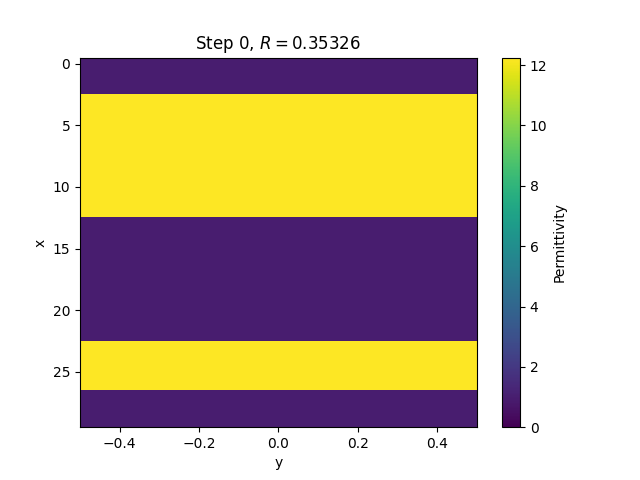
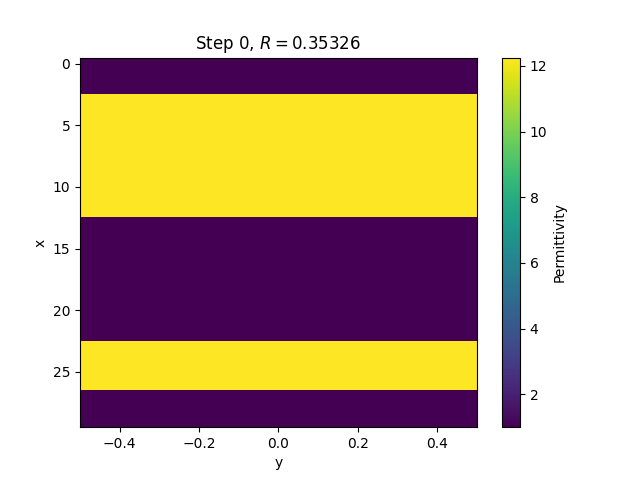
Moved files and identified error in optimizing for boundary permittivity

diff --git a/grcwa/optimisation/attempting stuff/ilic_GRCWA_autograd_width_R.py b/grcwa/optimisation/attempting stuff/ilic_GRCWA_autograd_width_R.py
@@ -1,4 +1,4 @@
-""" Topology optimization of reflection of a single patterned layer."""
+""" Topology optimization of reflection of a single patterned layers ."""
 """ Nlopt is needed. For some reason does not work with latest version of numpy. Works fine with numpy 1.25.0 """
 
 import grcwa
@@ -6,8 +6,8 @@ grcwa.set_backend('autograd')  # important!!
 
 import numpy as np
 import autograd.numpy as npgrad
-# from autograd import grad
 import nlopt
+from autograd import grad
 
 import matplotlib.pyplot as plt
 
@@ -17,7 +17,7 @@ Discretisation values
 # Truncation order
 nG = 30
 # Resolution 
-Nx = 10000
+Nx = 100
 Ny = 1
 
 '''
@@ -35,28 +35,58 @@ h = 0.5  # thickness of resonator layer
 t = 0.5  # also equal to thickness of substrate layer
 
 E_vacuum = 1.
-E_Si = 3.5**2    # https://refractiveindex.info/ with k = n^2 (dielectric constant, refractive index)
+E_Si = 3.5**2     # https://refractiveindex.info/ with k = n^2 (dielectric constant, refractive index)
 E_SiO2 = 1.45**2  # https://refractiveindex.info/ with k = n^2 (dielectric constant, refractive index)
 
 # Lattice constants. I will consider a lattice with square-shaped unit cells of size d x d (in natural units specified above)
 L1 = [d, 0]
 L2 = [0, dy]
 
+def boundary_indices(x):
+    global E_Si
+    # Define boundary permittivities
+    eps_1d = x[:,0]
+    boundary_indices = []
+    for i in range(1,len(eps_1d)-1):
+        lower_neighbor = eps_1d[i-1]
+        current = eps_1d[i]
+        upper_neighbor = eps_1d[i+1]
+        if current == E_Si and (lower_neighbor == E_Si or upper_neighbor == E_Si) and (lower_neighbor != upper_neighbor):
+            # then we are at a boundary
+            boundary_indices.append(i)
+    return boundary_indices
 '''
 Cell geometry
-    vars: an array, vars = [x1,w1,x2,w2]
+    vars: an array, vars = [eps1, eps2] which contains the permittivities at the edges of each element.
 '''
 def get_cell_geometry(vars):
+    
     # Unit cell geometry (rows, cols)
-    x = np.ones((Nx,Ny), dtype=float)*E_vacuum
+    cell_geometry = np.ones((Nx,Ny), dtype=float)*E_vacuum
 
     x0 = np.linspace(0,d,Nx)
     y0 = np.linspace(0,dy,Ny)
     x, y = np.meshgrid(x0,y0, indexing='ij')
+
     # The design will be completely uniform in the y-direction.
-    filter = (abs(x-vars[0]) <= vars[1]/2) | (abs(x-vars[2]) <= vars[3]/2)
-    x[filter] = E_Si
-    return x
+    filter = (abs(x-x1) <= vars[0]/2) | (abs(x-x2) <= vars[1]/2)
+    cell_geometry[filter] = E_Si
+
+    # What proportion of the width overhangs into a slice?
+    prop_w1 = (vars[0]/(2*Nx)) % 1
+    prop_w2 = (vars[1]/(2*Nx)) % 1
+
+    eps_w1 = 1 + 11*prop_w1
+    eps_w2 = 1 + 11*prop_w2
+
+    boundary_i = boundary_indices(cell_geometry)
+    lower_boundary = boundary_i[0:2]
+    upper_boundary = boundary_i[2:]
+    
+    cell_geometry[lower_boundary,:] = eps_w1
+    cell_geometry[upper_boundary,:] = eps_w2
+
+    return cell_geometry
 
 '''
 Light approach
@@ -125,25 +155,18 @@ fig1, ax1 = plt.subplots()
 ctrl = 0
 Qabs = npgrad.inf
 fun = lambda vars: cost_function(vars,Qabs)
-# grad_fun = grad(fun)
+grad_fun = grad(fun)
 def fun_nlopt(vars,gradn):
     global ctrl
-    # gradn[:] = grad_fun(vars)
-    '''
-    autoGrad doesn't work well here as space is discretised. Instead I will numerically evaluate the gradient.
-    '''
-    delx1_fun = fun([vars[0]+d/Nx, vars[1],      vars[2],      vars[3]])      - fun(vars)
-    delw1_fun = fun([vars[0],      vars[1]+d/Nx, vars[2],      vars[3]])      - fun(vars)
-    delx2_fun = fun([vars[0],      vars[1],      vars[2]+d/Nx, vars[3]])      - fun(vars)
-    delw2_fun = fun([vars[0],      vars[1],      vars[2],      vars[3]+d/Nx]) - fun(vars)
-    gradn[:] = [delx1_fun, delw1_fun, delx2_fun, delw2_fun]
+    # AVM: dC/dw = 1/(e-1)  *  dC/de
+    gradn[:] = grad_fun(vars)
     y = fun(vars)
 
     # Printing parameters to command line
     if ctrl == 0:
-        print("{:<8} {:<8} {:<8} {:<8} {:<8} {:<8}".format("Step", "R", 'x1', 'w1', 'x2', 'w2'))
+        print("{:<8} {:<8} {:<8} {:<8}".format("Step", "R", 'w1', 'w2'))
     else:
-        print("{:<8} {:<8.3f} {:<8.3f} {:<8.3f} {:<8.3f} {:<8.3f}".format(ctrl, y, vars[0],vars[1],vars[2],vars[3]))
+        print("{:<8} {:<8.3f} {:<8.3f} {:<8.3f}".format(ctrl, y, vars[0],vars[1]))
     # Visualising the geometry ____________________________________________________________________
     if ctrl == 0:
         global anim1
@@ -153,7 +176,7 @@ def fun_nlopt(vars,gradn):
         plt.xlabel("y")
         plt.ylabel("x")
         plt.title(r"Step {}, $R = {}$".format(ctrl, round(y,5)))
-        plt.savefig('ISB B/grcwa/optimisation/figs/width/ilic_GRCWA_optimisation_width&pos_R_initial')
+        plt.savefig('grcwa/optimisation/figs/width/ilic_GRCWA_optimisation_width_R_initial')
 
     else:
         anim1.set_data(get_cell_geometry(vars))
@@ -170,10 +193,10 @@ def fun_nlopt(vars,gradn):
 NLOPT Setup
 '''
 # set up NLOPT
-ndof = 4
-init = [x1,w1,x2,w2]
-lb = [0,0,0,0]
-ub = [d,d,d,d]
+ndof = 2
+init = [w1,w2]
+lb = [0,0]
+ub = [d,d]
 
 opt = nlopt.opt(nlopt.LD_MMA, ndof)
 opt.set_lower_bounds(lb)
@@ -190,7 +213,7 @@ plt.imshow(get_cell_geometry(vars), interpolation='nearest', vmin=0, vmax=E_Si, 
 plt.xlabel("y")
 plt.ylabel("x")
 plt.title(r"Final result, Step {}, $R = {}$".format(ctrl, round(fun(vars),5)))
-plt.savefig('ISB B/grcwa/optimisation/figs/width/ilic_GRCWA_optimisation_width&pos_R_final')
+plt.savefig('grcwa/optimisation/figs/width/ilic_GRCWA_optimisation_width_R_final')
 '''
 PROBLEMS:
 

diff --git a/grcwa/optimisation/numerical_gradients/ilic_GRCWA_autograd_width&pos_Jadon.py b/grcwa/optimisation/numerical_gradients/ilic_GRCWA_autograd_width&pos_Jadon.py
@@ -1,4 +1,4 @@
-""" Topology optimization of reflection of a single patterned layers ."""
+""" Topology optimization of reflection of a single patterned layer."""
 """ Nlopt is needed. For some reason does not work with latest version of numpy. Works fine with numpy 1.25.0 """
 
 import grcwa
@@ -8,7 +8,6 @@ import numpy as np
 import autograd.numpy as npgrad
 # from autograd import grad
 import nlopt
-from autograd import grad
 
 import matplotlib.pyplot as plt
 
@@ -45,7 +44,7 @@ L2 = [0, dy]
 
 '''
 Cell geometry
-    vars: an array, vars = [w1,w2]
+    vars: an array, vars = [x1,w1,x2,w2]
 '''
 def get_cell_geometry(vars):
     # Unit cell geometry (rows, cols)
@@ -55,7 +54,7 @@ def get_cell_geometry(vars):
     y0 = np.linspace(0,dy,Ny)
     x, y = np.meshgrid(x0,y0, indexing='ij')
     # The design will be completely uniform in the y-direction.
-    filter = (abs(x-x1) <= vars[0]/2) | (abs(x-x2) <= vars[1]/2)
+    filter = (abs(x-vars[0]) <= vars[1]/2) | (abs(x-vars[2]) <= vars[3]/2)
     x[filter] = E_Si
     return x
 
@@ -75,7 +74,7 @@ planewave={'p_amp':0,'s_amp':1,'p_phase':0,'s_phase':0}
 '''
 Cost function for optimisation.
 
-       x:   The dielectric constant on the 2D grids of size Nx*Ny
+       vars:   [x1,w1,x2,w2]
        
     Qabs:   A parameter for relaxation to better approach global optimal, at Qabs = inf, it will describe the real physics.
             It also be used to resolve the singular matrix issues by setting a large but finite Qabs, e.g. Qabs = 1e5
@@ -133,16 +132,18 @@ def fun_nlopt(vars,gradn):
     '''
     autoGrad doesn't work well here as space is discretised. Instead I will numerically evaluate the gradient.
     '''
-    delw1_fun = fun([vars[0]+d/Nx, vars[1]     ])      - fun(vars)
-    delw2_fun = fun([vars[0],      vars[1]+d/Nx])      - fun(vars)
-    gradn[:] = [delw1_fun, delw2_fun]
+    delx1_fun = fun([vars[0]+d/Nx, vars[1],      vars[2],      vars[3]])      - fun(vars)
+    delw1_fun = fun([vars[0],      vars[1]+d/Nx, vars[2],      vars[3]])      - fun(vars)
+    delx2_fun = fun([vars[0],      vars[1],      vars[2]+d/Nx, vars[3]])      - fun(vars)
+    delw2_fun = fun([vars[0],      vars[1],      vars[2],      vars[3]+d/Nx]) - fun(vars)
+    gradn[:] = [delx1_fun, delw1_fun, delx2_fun, delw2_fun]
     y = fun(vars)
 
     # Printing parameters to command line
     if ctrl == 0:
-        print("{:<8} {:<8} {:<8} {:<8}".format("Step", "R", 'w1', 'w2'))
+        print("{:<8} {:<8} {:<8} {:<8} {:<8} {:<8}".format("Step", "R", 'x1', 'w1', 'x2', 'w2'))
     else:
-        print("{:<8} {:<8.3f} {:<8.3f} {:<8.3f}".format(ctrl, y, vars[0],vars[1]))
+        print("{:<8} {:<8.3f} {:<8.3f} {:<8.3f} {:<8.3f} {:<8.3f}".format(ctrl, y, vars[0],vars[1],vars[2],vars[3]))
     # Visualising the geometry ____________________________________________________________________
     if ctrl == 0:
         global anim1
@@ -152,7 +153,7 @@ def fun_nlopt(vars,gradn):
         plt.xlabel("y")
         plt.ylabel("x")
         plt.title(r"Step {}, $R = {}$".format(ctrl, round(y,5)))
-        plt.savefig('ISB B/grcwa/optimisation/figs/width/ilic_GRCWA_optimisation_width_R_initial')
+        plt.savefig('grcwa/optimisation/figs/width/ilic_GRCWA_optimisation_width&pos_R_initial')
 
     else:
         anim1.set_data(get_cell_geometry(vars))
@@ -169,10 +170,10 @@ def fun_nlopt(vars,gradn):
 NLOPT Setup
 '''
 # set up NLOPT
-ndof = 2
-init = [w1,w2]
-lb = [0,0]
-ub = [d,d]
+ndof = 4
+init = [x1,w1,x2,w2]
+lb = [0,0,0,0]
+ub = [d,d,d,d]
 
 opt = nlopt.opt(nlopt.LD_MMA, ndof)
 opt.set_lower_bounds(lb)
@@ -189,7 +190,7 @@ plt.imshow(get_cell_geometry(vars), interpolation='nearest', vmin=0, vmax=E_Si, 
 plt.xlabel("y")
 plt.ylabel("x")
 plt.title(r"Final result, Step {}, $R = {}$".format(ctrl, round(fun(vars),5)))
-plt.savefig('ISB B/grcwa/optimisation/figs/width/ilic_GRCWA_optimisation_width_R_final')
+plt.savefig('grcwa/optimisation/figs/width/ilic_GRCWA_optimisation_width&pos_R_final')
 '''
 PROBLEMS:
 

diff --git a/grcwa/optimisation/ilic_GRCWA_autograd_permittivity_R.py b/grcwa/optimisation/ilic_GRCWA_autograd_permittivity_R.py
@@ -121,13 +121,13 @@ def fun_nlopt(x,gradn):
     # Visualising the geometry ____________________________________________________________________
     if ctrl == 0:
         global anim1
-        anim1 = ax1.imshow(np.reshape(x, (Nx,Ny)), interpolation='nearest', vmin=0, vmax=E_Si, aspect='auto')
+        anim1 = ax1.imshow(np.reshape(x, (Nx,Ny)), interpolation='nearest', vmin=1, vmax=E_Si, aspect='auto')
         cbar = plt.colorbar(anim1)
         cbar.set_label("Permittivity")
         plt.xlabel("y")
         plt.ylabel("x")
         plt.title(r"Step {}, $R = {}$".format(ctrl, round(y,5)))
-        plt.savefig('ISB B/grcwa/optimisation/figs/permittivity/ilic_GRCWA_optimisation_permittivity_R_initial')
+        plt.savefig('grcwa/optimisation/figs/permittivity/ilic_GRCWA_optimisation_permittivity_R_initial')
     else:
         anim1.set_data(np.reshape(x, (Nx,Ny)))
         plt.title(r"Step {}, $R = {}$".format(ctrl, round(y,5)))
@@ -173,8 +173,8 @@ x = opt.optimize(init)
 
 
 
-plt.imshow(np.reshape(x, (Nx,Ny)), interpolation='nearest', vmin=0, vmax=E_Si, aspect='auto')
+plt.imshow(np.reshape(x, (Nx,Ny)), interpolation='nearest', vmin=1, vmax=E_Si, aspect='auto')
 plt.xlabel("y")
 plt.ylabel("x")
 plt.title(r"Final result, Step {}, $R_0 = {}$".format(ctrl, round(fun(x),5)))
-plt.savefig('ISB B/grcwa/optimisation/figs/permittivity/ilic_GRCWA_optimisation_permittivity_R_final')
+plt.savefig('grcwa/optimisation/figs/permittivity/ilic_GRCWA_optimisation_permittivity_R_final')

diff --git a/grcwa/optimisation/numerical_gradients/ilic_GRCWA_autograd_width&pos_R.py b/grcwa/optimisation/numerical_gradients/ilic_GRCWA_autograd_width&pos_R.py
@@ -74,7 +74,7 @@ planewave={'p_amp':0,'s_amp':1,'p_phase':0,'s_phase':0}
 '''
 Cost function for optimisation.
 
-       vars:   [x1,w1,x2,w2]
+       x:   The dielectric constant on the 2D grids of size Nx*Ny
        
     Qabs:   A parameter for relaxation to better approach global optimal, at Qabs = inf, it will describe the real physics.
             It also be used to resolve the singular matrix issues by setting a large but finite Qabs, e.g. Qabs = 1e5
@@ -153,7 +153,7 @@ def fun_nlopt(vars,gradn):
         plt.xlabel("y")
         plt.ylabel("x")
         plt.title(r"Step {}, $R = {}$".format(ctrl, round(y,5)))
-        plt.savefig('ISB B/grcwa/optimisation/figs/width/ilic_GRCWA_optimisation_width&pos_R_initial')
+        plt.savefig('grcwa/optimisation/figs/width/ilic_GRCWA_optimisation_width&pos_R_initial')
 
     else:
         anim1.set_data(get_cell_geometry(vars))
@@ -190,7 +190,7 @@ plt.imshow(get_cell_geometry(vars), interpolation='nearest', vmin=0, vmax=E_Si, 
 plt.xlabel("y")
 plt.ylabel("x")
 plt.title(r"Final result, Step {}, $R = {}$".format(ctrl, round(fun(vars),5)))
-plt.savefig('ISB B/grcwa/optimisation/figs/width/ilic_GRCWA_optimisation_width&pos_R_final')
+plt.savefig('grcwa/optimisation/figs/width/ilic_GRCWA_optimisation_width&pos_R_final')
 '''
 PROBLEMS:
 

diff --git a/grcwa/optimisation/attempting stuff/error_MWE.py b/grcwa/optimisation/attempting stuff/error_MWE.py
@@ -1,0 +1,46 @@
+import numpy as np
+from autograd import grad
+import nlopt
+
+
+# DOES NOT WORK AS GRADIENT OUTPUTS TO ZERO IN gradn[:] = grad_fun(x)
+
+# def cost_function(x):
+#     cell_geometry = np.ones((10,1), dtype=float)
+    
+#     if type(x) == npgrad.numpy_boxes.ArrayBox:
+#         x = x._value
+
+#     cell_geometry[5:] = x[0]
+#     cell_geometry[:5] = x[1]
+#
+#     z = (x[0])**2 + (x[1])**2
+#     return z
+
+def cost_function(x):
+    cell_geometry = np.ones((10,1), dtype=float)
+    cell_geometry[5:] = x[0] # TypeError: float() argument must be a string or a number, not 'ArrayBox'
+    cell_geometry[:5] = x[1] # TypeError: float() argument must be a string or a number, not 'ArrayBox'
+
+    z = (x[0])**2 + (x[1])**2
+    print(type(z)) # <class 'autograd.numpy.numpy_boxes.ArrayBox'> whenever grad_fun(x) is passed
+    return z
+
+fun = lambda x: cost_function(x)
+grad_fun = grad(fun)
+
+
+def fun_nlopt(x, gradn):
+    gradn[:] = grad_fun(x)
+    return fun(x)
+
+# set up NLOPT
+ndof = 2
+init = [5,5]
+opt = nlopt.opt(nlopt.LD_MMA, ndof)
+
+opt.set_maxeval(10)
+opt.set_max_objective(fun_nlopt)
+vars = opt.optimize(init)
+
+print(vars)
